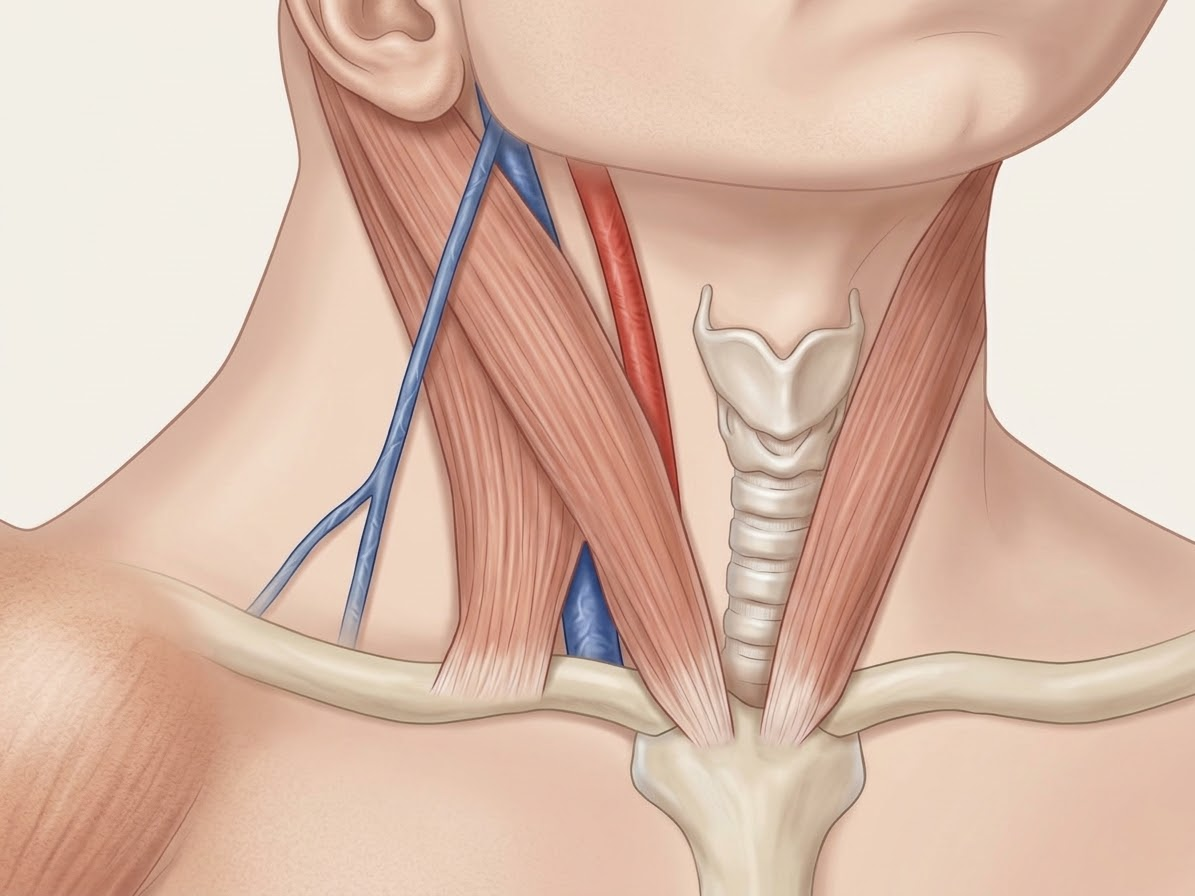
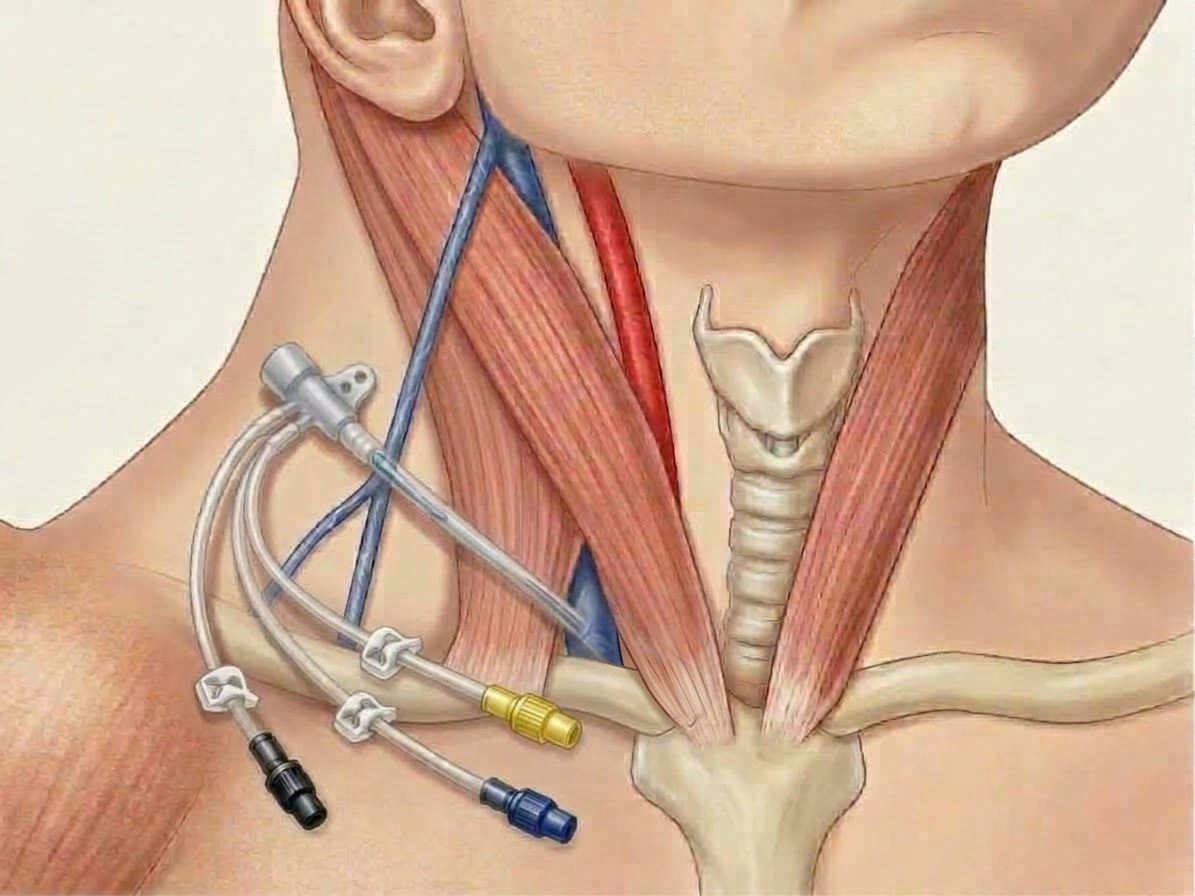
IJ plate: use the owner's painted triple-lumen line, with its stray tail erased
The owner preferred Gemini's painted catheter to the code-drawn one. In
that painting the shaft ran on past the SCM triangle to a clear stub lying
on the clavicle. The tail and stub were replaced with colour-matched,
feathered pixels from the owner's clean painting of the same anatomy.
gemini-line-original.jpg is kept unedited. The shaft now ends over the IJ
in the triangle, where code draws the skin-entry dimple and teal ring.

The line and hub are traced for the checks; 22/22 pass. provenance.json
records every catheter attempt and the known limit: the entry is about
1.5 cm below the apex that the card text names.

Not approved and not bundled.

Claude-Session: https://claude.ai/code/session_01XyVvHwhR2fjDV2qNK5bAob

diff --git a/visuals/ij_landmark_triangle/draw.py b/visuals/ij_landmark_triangle/draw.py
@@ -6,11 +6,14 @@ provenance.json): front of the neck, head at the top turned slightly left,
 the right neck on the image left. The IJ shows in the triangle between the
 sternal and clavicular heads of the right SCM, lateral to the carotid.
 
-Markings, drawn here (owner, 2026-09-30: "show the catheter with triple
-lumen coming out of the neck and IJ"): a triple-lumen central line leaving
-the skin at the apex of the triangle, over the IJ, with its hub pointing
-headward as an IJ line lies, three extension lines, clamps and caps. The teal
-ring marks the site. Lumen colours are left neutral, since they vary by kit.
+The triple-lumen line is painted too (owner, 2026-09-30: "show the catheter
+with triple lumen coming out of the neck and IJ"; the owner preferred the
+painted line to a code-drawn one). Gemini ran the shaft on past the triangle
+to a clear stub lying on the clavicle. That tail and stub were erased by
+blending back colour-matched pixels from the owner's clean painting of the
+same anatomy (gemini-line-original.jpg is the unedited file). The shaft now
+ends in the triangle over the IJ, about 1.5 cm below the apex; code draws the
+skin-entry dimple and the teal ring there.
 
 Regions are hand-traced over the base in base-image pixels (DEBUG=1 shows
 them). Re-trace everything if the base is replaced.
@@ -45,58 +48,13 @@ TRIANGLE_IJ = [(582, 552), (566, 652), (620, 652)]           # the IJ as it show
 STERNAL_HEAD = [(586, 545), (625, 655), (690, 740), (735, 740), (700, 640), (640, 500), (600, 470)]
 CLAVICULAR_HEAD = [(445, 690), (562, 662), (580, 548), (560, 480), (462, 480), (442, 600)]
 CAROTID = ([(588, 170), (615, 300), (640, 420), (655, 500)], 22)
-EXIT = (583.0, 560.0)                                        # just inside the apex
-LINE_ANGLE = -27.0                                           # degrees from straight up; negative leans lateral (image left)
+EXIT = (586.0, 624.0)                                        # where the painted shaft enters the skin, in the triangle over the IJ
 
 
-CATHETER_DEFS = """
-<filter id="cath-shadow" filterUnits="userSpaceOnUse" x="-400" y="-600" width="800" height="700">
-  <feDropShadow dx="5" dy="8" stdDeviation="4.5" flood-color="#5A3A2E" flood-opacity="0.32"/></filter>
-<linearGradient id="hub" x1="0" x2="1"><stop offset="0" stop-color="#A7B1B9"/><stop offset="0.45" stop-color="#F3F5F6"/>
-  <stop offset="0.6" stop-color="#E4E8EB"/><stop offset="1" stop-color="#9AA5AE"/></linearGradient>
-<linearGradient id="cap" x1="0" x2="1"><stop offset="0" stop-color="#8E99A3"/><stop offset="0.45" stop-color="#DDE2E6"/><stop offset="1" stop-color="#7F8B96"/></linearGradient>
-"""
-
-
-def catheter(exit_c) -> str:
-    """Triple-lumen line in a local frame pointing up from the exit site, then rotated.
-
-    Shaded as translucent plastic: a grey edge, a pale body and a thin
-    highlight, with a soft contact shadow on the skin and a small dimple where
-    the shaft enters it. Lumen colours are neutral."""
-    ends = [(-95, -430), (0, -455), (95, -430)]
-
-    def tube(d, width):
-        return (f'<path d="{d}" fill="none" stroke-linecap="round" stroke="#7C8690" stroke-width="{width + 5}"/>'
-                f'<path d="{d}" fill="none" stroke-linecap="round" stroke="#E9EDEF" stroke-width="{width}"/>'
-                f'<path d="{d}" fill="none" stroke-linecap="round" stroke="#FFFFFF" stroke-width="{max(width * 0.3, 2)}" '
-                f'opacity="0.9" transform="translate(-{width * 0.22:.1f} 0)"/>')
-
-    lines, clamps, caps = [], [], []
-    for x, y in ends:
-        lines.append(tube(f"M0,-222 C{fmt(x * 0.2)},-290 {fmt(x * 0.9)},{fmt(y + 90)} {fmt(x)},{fmt(y)}", 7))
-        cx, cy = x * 0.82, y + 62
-        clamps.append(f'<rect x="{fmt(cx - 18)}" y="{fmt(cy - 8)}" width="36" height="16" rx="5" fill="#F7F8F8" stroke="#6E7780" stroke-width="2.5"/>'
-                      f'<rect x="{fmt(cx - 12)}" y="{fmt(cy - 3)}" width="24" height="3" rx="1.5" fill="#B8C0C6"/>')
-        caps.append(f'<rect x="{fmt(x - 12)}" y="{fmt(y - 36)}" width="24" height="38" rx="6" fill="url(#cap)" stroke="#56606B" stroke-width="2.5"/>'
-                    f'<path d="M{fmt(x - 12)},{fmt(y - 24)} h24 M{fmt(x - 12)},{fmt(y - 16)} h24" stroke="#6B7580" stroke-width="1.5" opacity="0.7"/>')
-    return f"""
-  <g id="central-line" class="marking" transform="translate({fmt(exit_c[0])} {fmt(exit_c[1])}) rotate({fmt(LINE_ANGLE)})">
-    <ellipse cx="0" cy="2" rx="11" ry="6" fill="#7A4E3E" opacity="0.35"/>
-    <g filter="url(#cath-shadow)">
-      <line id="catheter-shaft" x1="0" y1="0" x2="0" y2="-150" stroke="#7C8690" stroke-width="15" stroke-linecap="round"/>
-      <line x1="0" y1="-3" x2="0" y2="-150" stroke="#E9EDEF" stroke-width="10" stroke-linecap="round"/>
-      <line x1="-2.5" y1="-8" x2="-2.5" y2="-148" stroke="#FFFFFF" stroke-width="3" stroke-linecap="round" opacity="0.9"/>
-      {"".join(lines)}
-      <rect x="-46" y="-197" width="92" height="20" rx="10" fill="url(#hub)" stroke="#56606B" stroke-width="2.5"/>
-      <circle cx="-33" cy="-187" r="4.5" fill="#F4F1EA" stroke="#56606B" stroke-width="2"/>
-      <circle cx="33" cy="-187" r="4.5" fill="#F4F1EA" stroke="#56606B" stroke-width="2"/>
-      <rect id="catheter-hub" x="-20" y="-228" width="40" height="82" rx="10" fill="url(#hub)" stroke="#56606B" stroke-width="2.5"/>
-      <rect x="-9" y="-222" width="5" height="70" rx="2.5" fill="#FFFFFF" opacity="0.75"/>
-      {"".join(clamps)}
-      {"".join(caps)}
-    </g>
-  </g>"""
+# The painted line, traced in base pixels: the shaft from the hub to where it
+# now enters the skin, and the hub itself.
+SHAFT = ([(350, 440), (420, 482), (480, 530), (530, 575), (586, 624)], 12)
+HUB = [(262, 350), (300, 338), (336, 372), (318, 400), (276, 396)]
 
 
 def build() -> str:
@@ -125,13 +83,15 @@ def build() -> str:
   <polygon id="sternal-head" points="{poly(STERNAL_HEAD)}" {region}/>
   <polygon id="clavicular-head" points="{poly(CLAVICULAR_HEAD)}" {region}/>
   <path id="carotid-artery" d="{smooth_path([canvas(p) for p in carotid_points])}" fill="none" stroke-width="{fmt(carotid_width * SCALE)}" {carotid_style}/>
-{catheter(exit_c)}
+  <path id="catheter-shaft" d="{smooth_path([canvas(p) for p in SHAFT[0]])}" fill="none" stroke-width="{fmt(SHAFT[1] * SCALE)}" {carotid_style}/>
+  <polygon id="catheter-hub" points="{poly(HUB)}" {region}/>
+  <ellipse class="marking" cx="{fmt(exit_c[0] + 2)}" cy="{fmt(exit_c[1] + 3)}" rx="13" ry="8" fill="#6A3F33" opacity="0.4" transform="rotate(38 {fmt(exit_c[0])} {fmt(exit_c[1])})"/>
   <circle id="exit-site" class="marking" cx="{fmt(exit_c[0])}" cy="{fmt(exit_c[1])}" r="22" fill="none" stroke="#0E8C98" stroke-width="5"/>
 </g>
 
 <g id="labels">{"".join(label.svg() for label in labels)}</g>
 """
-    return document(body, defs=CATHETER_DEFS, extra_style=".plate-bg { fill: #F4F1EA; }")
+    return document(body, extra_style=".plate-bg { fill: #F4F1EA; }")
 
 
 def main() -> int:
